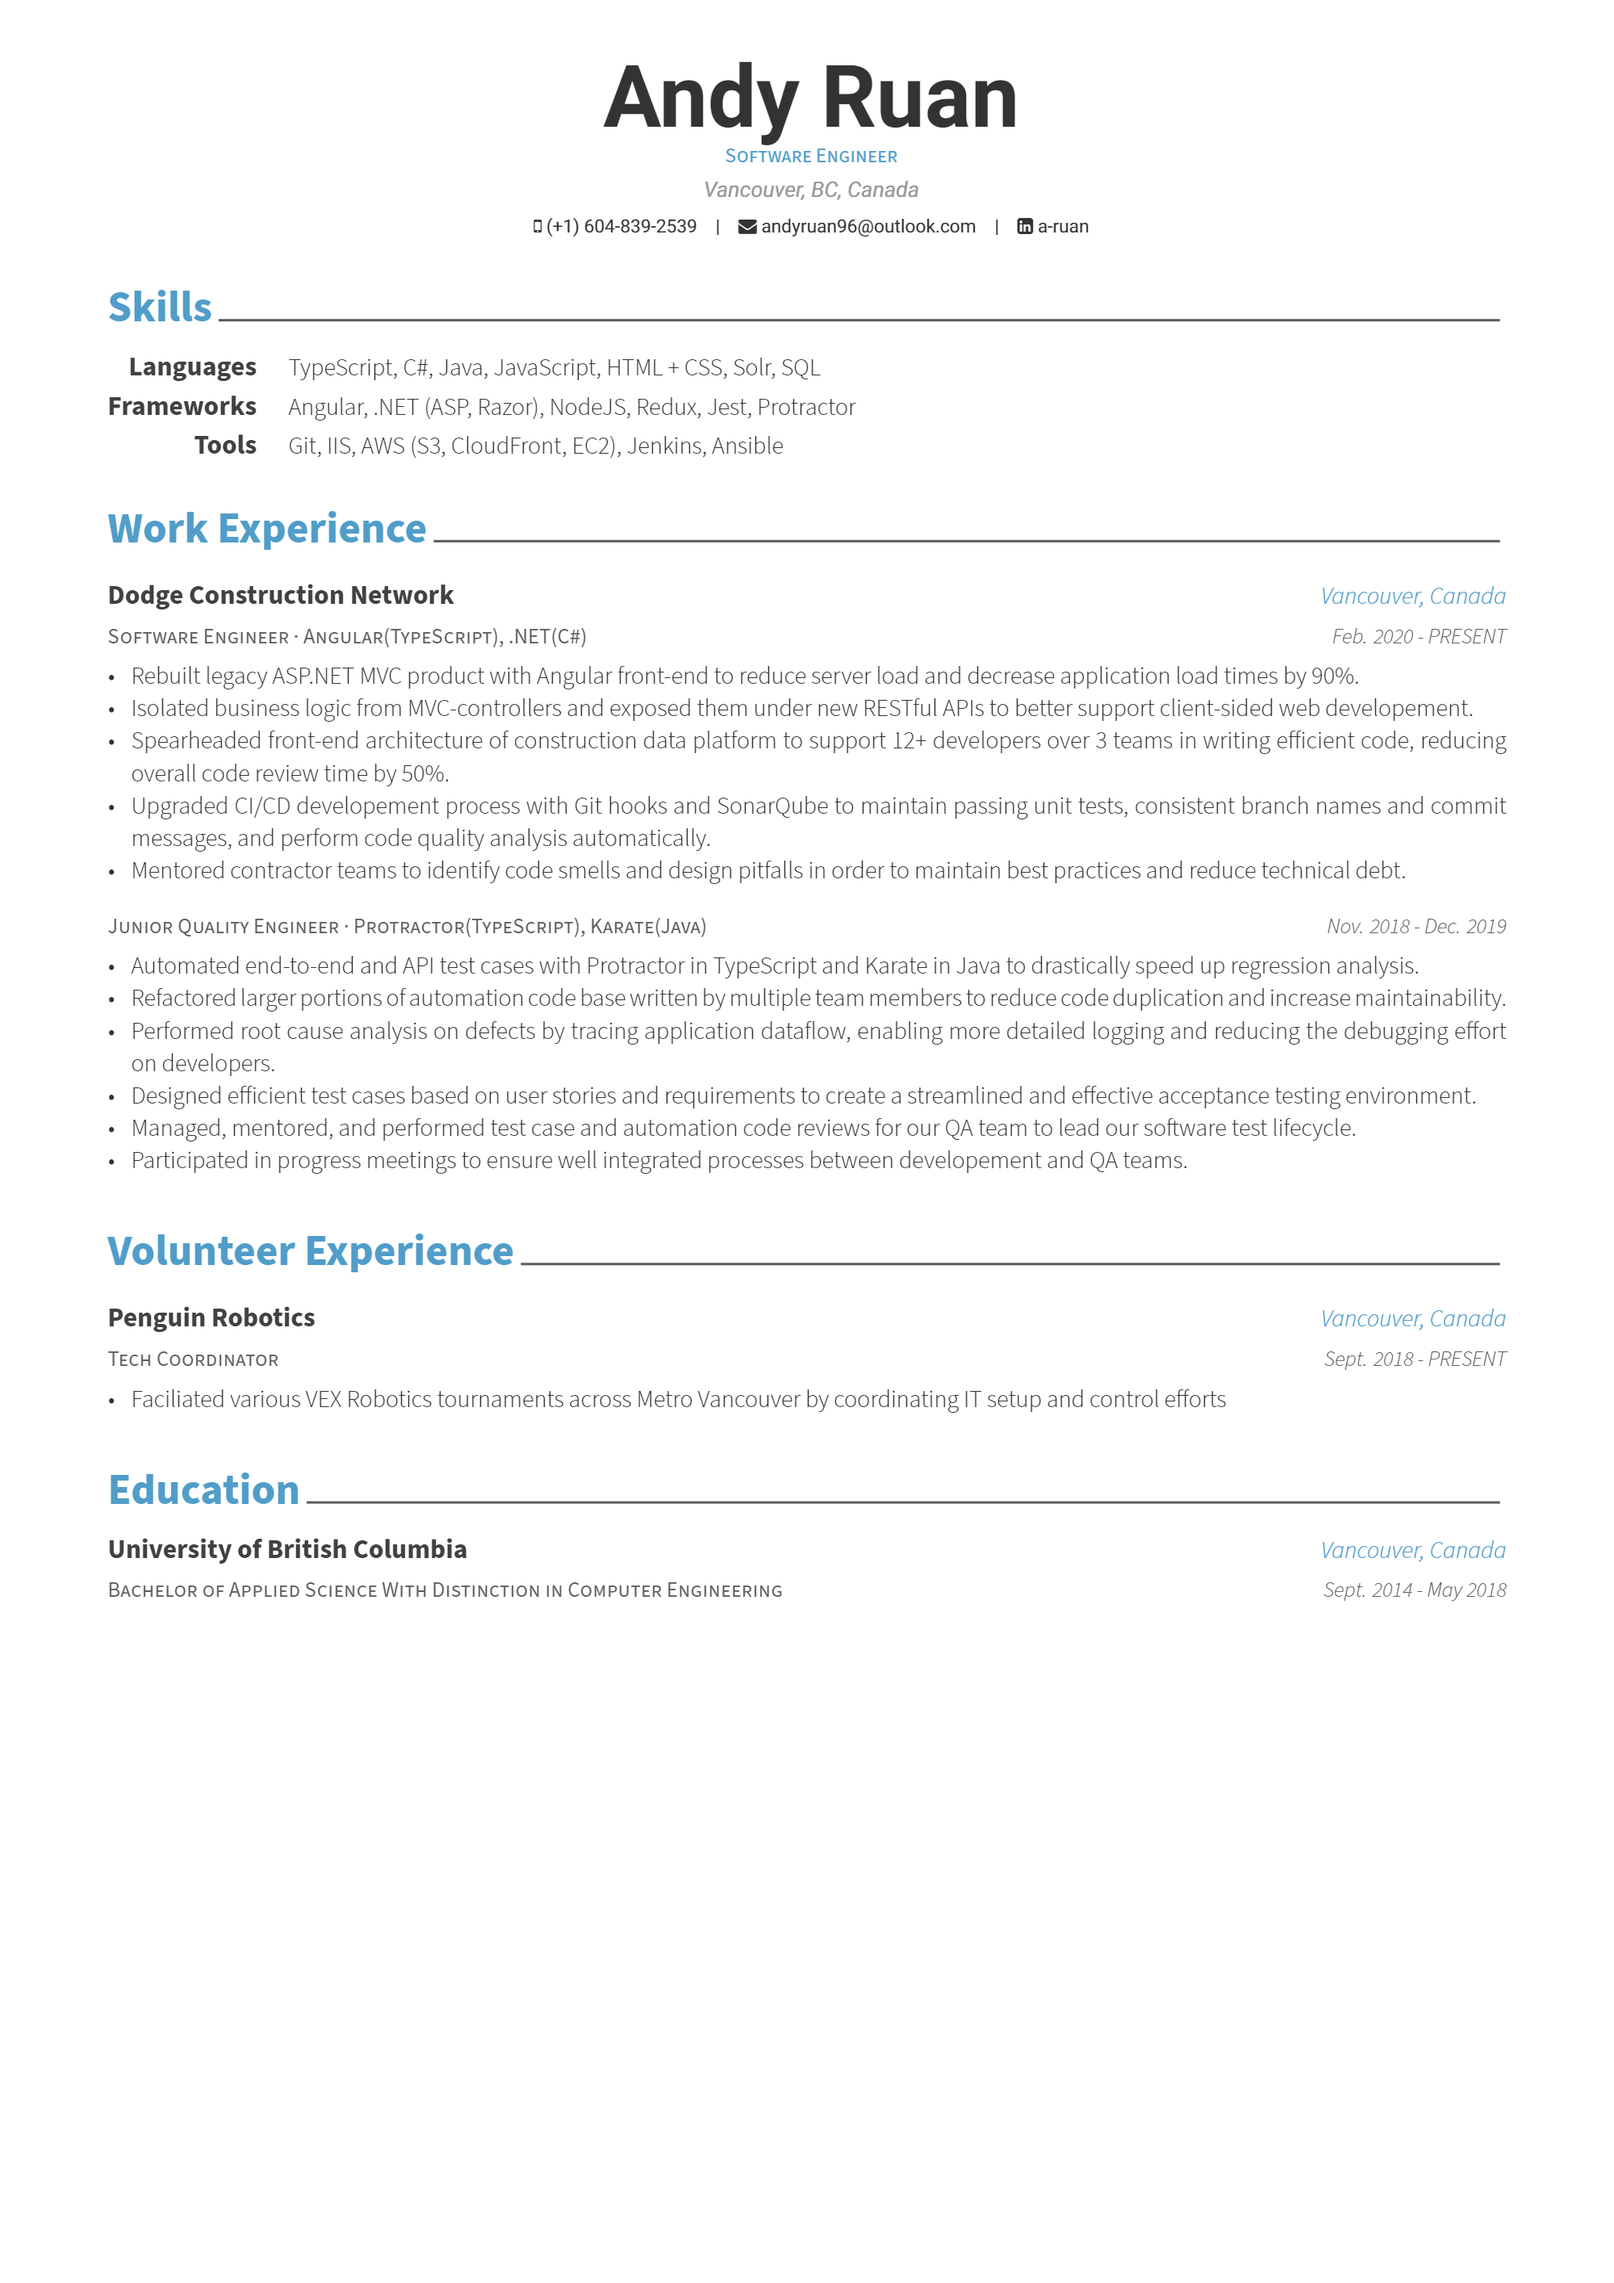
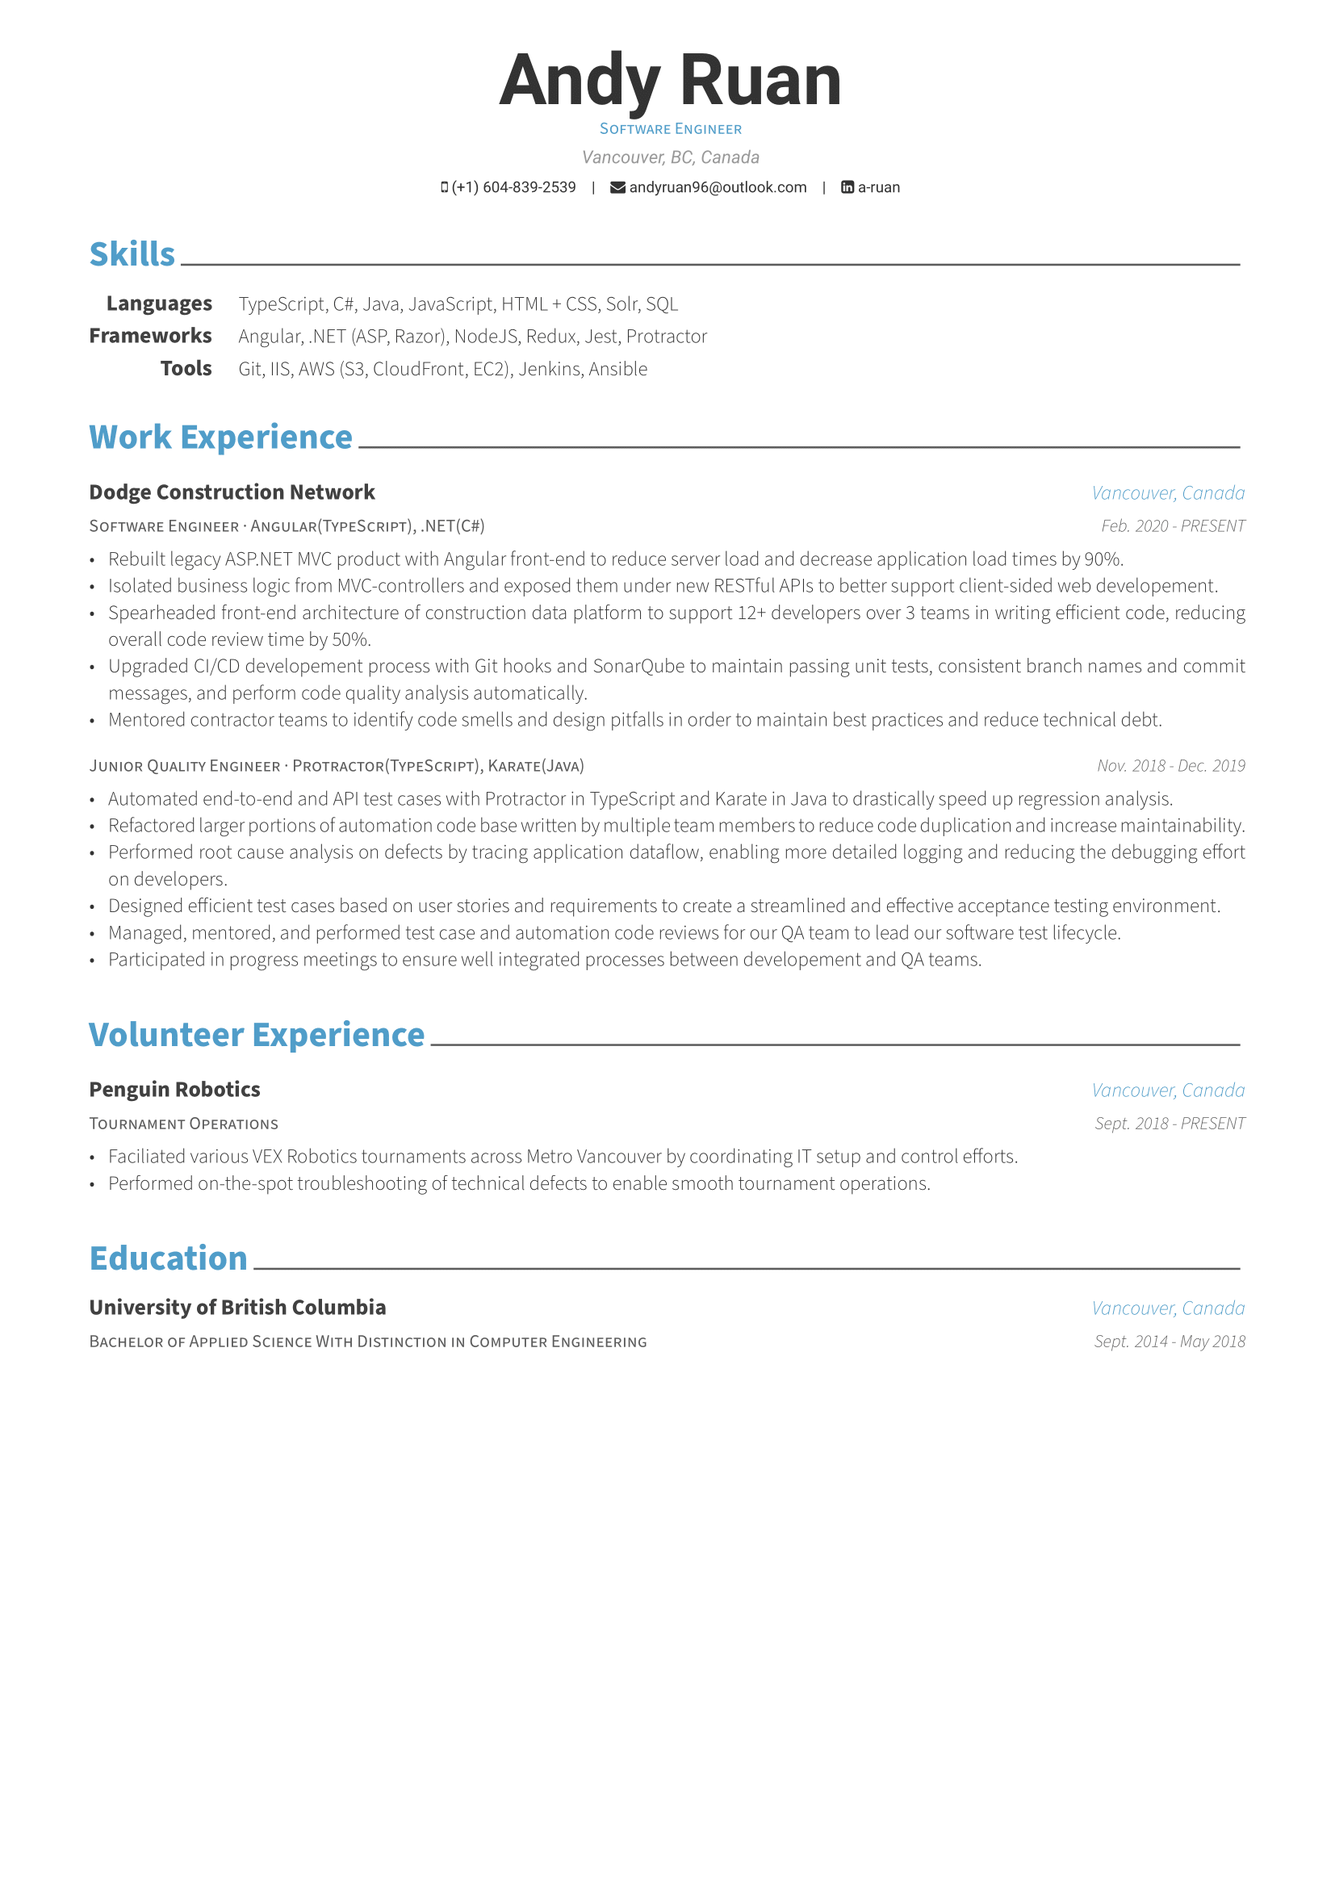
Update volunteer role and descriptions

diff --git a/resume/sections/volunteer.tex b/resume/sections/volunteer.tex
@@ -11,13 +11,14 @@
 
 %---------------------------------------------------------
   \cventry
-    {Tech Coordinator} % Job title
+    {Tournament Operations} % Job title
     {Penguin Robotics} % Organization
     {Vancouver, Canada} % Location
     {Sept. 2018 - PRESENT} % Date(s)
     {
       \begin{cvitems} % Description(s) of tasks/responsibilities
-        \item {Faciliated various VEX Robotics tournaments across Metro Vancouver by coordinating IT setup and control efforts}
+        \item {Faciliated various VEX Robotics tournaments across Metro Vancouver by coordinating IT setup and control efforts.}
+        \item {Performed on-the-spot troubleshooting of technical defects to enable smooth tournament operations.}
       \end{cvitems}
     }
 
